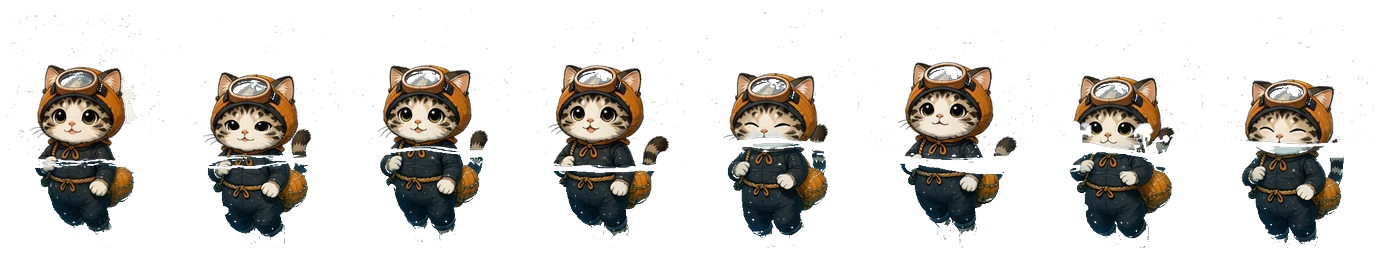
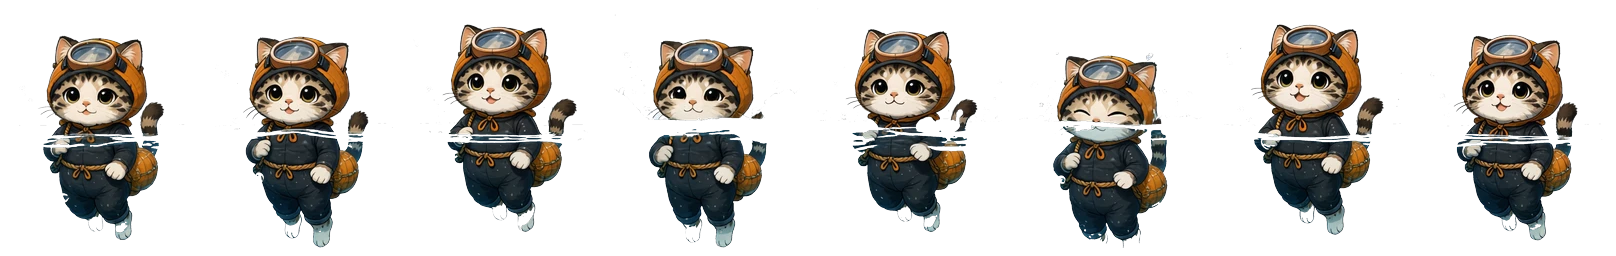
물속 조작을 방향키로 통일 + 물속 그림 3종 교체 + 제주도 지도 아이콘
- 물속에서 Space·Shift 제거: ↑ 떠오르기, ↓ 잠수, ← → 좌우 헤엄
  (폰은 조이스틱 위/아래/좌우 그대로)
- 직접 뽑으신 영상 3편을 그림띠로 변환해 교체:
  · dive_float — 입수 첫 모습(수면에 떠서 물결이 가슴에 걸친 모습)
  · dive_up — 위를 보며 떠오르는 모습 (5칸→8칸)
  · dive_down — 아래로 잠수하는 모습 (이전 커밋)
- 왼쪽 아래 지도 버튼을 🗺 이모지에서 한라산 볼록한 제주도 모양으로

diff --git a/game/jeju3d.js b/game/jeju3d.js
@@ -2198,9 +2198,9 @@ if (CAN_USE_IMAGES) {
   // 해녀 물질 — 헤엄·둥둥·수면은 영상에서 뽑아 8칸씩이라 훨씬 부드럽게 움직입니다
   loadSheet('diveSwim',  'dive_swim.webp',  8,  164);          // 물속 활공 (옆모습, 원본은 왼쪽을 봄)
   loadSheet('diveIdle',  'dive_idle.webp',  8,  139);          // 물속에 가만히 떠 있기 (정면)
-  loadSheet('diveFloat', 'dive_float.webp', 8,  173);          // 수면에 떠서 숨 고르기 (정면)
+  loadSheet('diveFloat', 'dive_float.webp', 8,  202);          // 수면에 떠서 숨 고르기 — 입수 첫 모습 (직접 뽑으신 영상)
   loadSheet('divePick',  'dive_pick.webp',  6,  190);          // 전복·소라를 딸 때 (한 번만 재생)
-  loadSheet('diveUp',    'dive_up.webp',    5,  140);          // 수면으로 떠오를 때
+  loadSheet('diveUp',    'dive_up.webp',    8,  165);          // 수면으로 떠오를 때 (직접 뽑으신 영상)
   loadSheet('diveDown',  'dive_down.webp',  8,  175);          // 아래로 잠수할 때 (직접 뽑으신 영상에서 변환)
   // 헌집 고치기 — 망치질(0) · 톱질(1) · 페인트칠(2). 수리 단계에 맞는 칸 하나를 보여줍니다
   loadSheet('fixHouse',  'fix_house.webp',  3,  167);
@@ -2330,7 +2330,6 @@ addEventListener('wheel', (e) => {
 // 손가락 여러 개를 동시에 쓰므로, 어느 손가락이 무슨 역할인지 번호(identifier)로 기억해둡니다.
 const touchMove = { f: 0, r: 0 };     // 조이스틱이 만들어내는 앞뒤(f)·좌우(r) 입력 (-1 ~ 1)
 let touchJump = false, touchRun = false;   // 화면 버튼을 누르고 있는 동안 true
-let touchDive = false;                     // 물속에서 💨 버튼을 누르고 있는 동안 true (잠수)
 let stickId = null, stickX = 0, stickY = 0;    // 이동용 손가락
 let lookId = null, lookX = 0, lookY = 0;       // 시야용 손가락
 let pinchDist = 0;                             // 줌용 두 손가락 사이 거리
@@ -2468,14 +2467,15 @@ function updateBasketBadge() {
 const KEY_ACTION = IS_TOUCH ? '🐾 버튼' : 'F';
 const KEY_GRAB = KEY_ACTION;   // 상호작용 키를 하나로 통일했습니다
 const KEY_UP = IS_TOUCH ? '⤴ 버튼' : 'Space';
-const KEY_DOWN = IS_TOUCH ? '💨 버튼' : 'Shift';   // 물속에서 아래로 잠수하기
 
 function updateRopeBadge() {
   if (!ropeBadge) return;
   ropeBadge.style.display = 'block';   // 아래 분기 중 하나가 걸리면 보입니다 (없으면 끝에서 숨김)
   // 물속에서는 상자 안내 대신 물질 안내를 보여줍니다
   if (state.diving) {
-    ropeBadge.textContent = `🤿 ${KEY_ACTION} 채집 · ${KEY_DOWN} 잠수 · ${KEY_UP} 떠오르기 · 수면에서 ${KEY_ACTION} 나가기`;
+    ropeBadge.textContent = IS_TOUCH
+      ? '🤿 🐾 채집 · 조이스틱 위로 떠오르기 · 아래로 잠수 · 수면에서 🐾 나가기'
+      : '🤿 F 채집 · ↑ 떠오르기 · ↓ 잠수 · ← → 헤엄 · 수면에서 F 나가기';
     return;
   }
   // 상점 안: 앞에 있는 물건의 이름·가격을 알려줍니다
@@ -3814,29 +3814,13 @@ bindTouchButton('btnAction', (down) => { if (down) { wakeAudio(); startBgm(); ha
 bindTouchButton('btnJump',   (down) => { touchJump = down; });
 // 달리기는 꾹 누르고 있는 대신, 한 번 누르면 켜지고 다시 누르면 꺼지는 토글입니다.
 // (왼손은 조이스틱을 잡고 있어서 버튼까지 계속 누르고 있기 어렵기 때문)
-// 물속에서는 같은 버튼이 "잠수(아래로)"가 됩니다 — 누르고 있는 동안 내려갑니다.
 {
   const runBtn = document.getElementById('btnRun');
-  let holdingDive = false;
-  if (runBtn) {
-    runBtn.addEventListener('pointerdown', (e) => {
-      e.preventDefault();
-      if (state.diving) {
-        touchDive = true; holdingDive = true;
-        runBtn.classList.add('on');
-        return;
-      }
-      touchRun = !touchRun;
-      runBtn.classList.toggle('on', touchRun);
-    });
-    ['pointerup', 'pointercancel', 'pointerleave'].forEach((ev) =>
-      runBtn.addEventListener(ev, () => {
-        if (holdingDive) {
-          touchDive = false; holdingDive = false;
-          runBtn.classList.remove('on');
-        }
-      }));
-  }
+  if (runBtn) runBtn.addEventListener('pointerdown', (e) => {
+    e.preventDefault();
+    touchRun = !touchRun;
+    runBtn.classList.toggle('on', touchRun);
+  });
 }
 
 // 점프 높이는 JUMP²/(2×GRAVITY). 7.4이면 1.24미터라 돌담(1.3미터쯤)을 아슬아슬하게 못 넘었습니다.
@@ -3886,11 +3870,14 @@ function updateLulu(dt) {
   const spd = (running ? RUN : WALK) * tilt;
 
   if (state.diving) {
-    // 물속: 미는 동안 서서히 붙고, 손을 놓아도 관성으로 한참 미끄러집니다 (인사이드식 묵직함)
-    if (moving) {
+    // 물속에서는 방향키만 씁니다: ← →(조이스틱 좌우)는 좌우 헤엄,
+    // ↑ ↓(조이스틱 위아래)는 아래쪽 점프·중력 계산에서 뜨고 가라앉기에 씁니다.
+    moveDir.set(rgtX * r, 0, rgtZ * r);
+    const sideTilt = Math.min(1, Math.abs(r));
+    if (moveDir.lengthSq() > 0.0001) {
       moveDir.normalize();
-      swimVel.x += moveDir.x * SWIM_ACCEL * tilt * dt;
-      swimVel.z += moveDir.z * SWIM_ACCEL * tilt * dt;
+      swimVel.x += moveDir.x * SWIM_ACCEL * sideTilt * dt;
+      swimVel.z += moveDir.z * SWIM_ACCEL * sideTilt * dt;
       state.idleTime = 0;
     } else {
       state.idleTime += dt;
@@ -3970,9 +3957,9 @@ function updateLulu(dt) {
   const gy = state.diving ? seabedHeight(state.x, state.z) : groundHeight(state.x, state.z);
   const wantUp = keys['Space'] || touchJump;
   if (state.diving) {
-    const wantDown = keys['ShiftLeft'] || keys['ShiftRight'] || touchDive;
-    if (wantUp) state.vy += SWIM_UP * dt;           // 위로 헤엄치기
-    else if (wantDown) state.vy -= SWIM_DOWN * dt;  // 아래로 잠수하기
+    // ↑(조이스틱 위)로 떠오르고, ↓(아래)로 잠수합니다 — f는 위에서 계산한 앞뒤 입력값
+    if (f > 0.1) state.vy += SWIM_UP * Math.min(1, f) * dt;         // 위로 헤엄치기
+    else if (f < -0.1) state.vy -= SWIM_DOWN * Math.min(1, -f) * dt; // 아래로 잠수하기
     else state.vy += BUOYANCY * dt;                 // 부력 — 가만히 있으면 살며시 떠오릅니다
     state.vy *= Math.max(0, 1 - 2.6 * dt);          // 물의 저항 — 움직임이 부드럽게 잦아듭니다
     state.vy = Math.max(-2.0, Math.min(2.2, state.vy));
@@ -4080,9 +4067,9 @@ function updateSpriteLulu(groundY) {
       sheet = SHEETS.diveFloat;
       cell = Math.floor(t * 6) % sheet.frames;
     } else if (state.vy > 0.5 || surfacing > 0) {
-      // 위로 헤엄쳐 떠오르는 중 (⤴·Space)
+      // 위로 헤엄쳐 떠오르는 중 (↑)
       sheet = SHEETS.diveUp;
-      cell = pingpong(Math.floor(t * 7), sheet.frames);
+      cell = Math.floor(t * 8) % sheet.frames;
     } else if (state.vy < -0.4) {
       // 아래로 잠수하는 중 (💨·Shift) — 전용 잠수 그림이 있으면 그걸, 없으면 활공 그림을 기울여 씁니다
       sheet = SHEETS.diveDown || SHEETS.diveSwim;

diff --git a/game/jeju3d.html b/game/jeju3d.html
@@ -146,6 +146,8 @@
     user-select: none; -webkit-tap-highlight-color: transparent; touch-action: manipulation;
   }
   .ibtn:active { background: rgba(255,190,80,.7); }
+  /* 버튼 속 그림(제주도 지도 아이콘)이 손가락 입력을 가로채지 않게 합니다 */
+  .ibtn svg { pointer-events: none; display: block; }
 
   /* ---- 전체 지도 (M키 / 🗺 배지) ---- */
   #mapWrap {
@@ -333,7 +335,7 @@
     <b>달리기</b> Shift<br>
     <b>점프</b> Space<br>
     <b>상호작용</b> F 하나로 전부 (따기·사기·택배·수리·먹이기·상자·물질)<br>
-    <b>물속에서</b> F 채집 · Shift 잠수 · Space 떠오르기 · 수면에서 F 나가기<br>
+    <b>물속에서</b> F 채집 · ↑ 떠오르기 · ↓ 잠수 · ← → 헤엄 · 수면에서 F 나가기<br>
     <b>전체 지도</b> M (또는 🗺 배지)<br>
     <b>왼쪽 아래</b> 💾 저장 · 🗺 지도 · 🎵 음악 (자동 저장도 됩니다)
   </div>
@@ -353,7 +355,14 @@
 
   <div id="iconRow">
     <button class="ibtn" id="btnSave" title="저장하기">💾</button>
-    <button class="ibtn" id="mapBadge" title="지도 (M)">🗺</button>
+    <button class="ibtn" id="mapBadge" title="지도 (M)">
+      <!-- 제주도를 단순화한 모양: 동서로 길쭉한 섬 가운데에 한라산이 볼록 -->
+      <svg width="24" height="15" viewBox="0 0 48 30" aria-hidden="true">
+        <path d="M5 18 Q3 12 10 10 Q16 4 24 5 Q34 3 41 9 Q46 12 44 17 Q42 22 33 24 Q22 27 12 24 Q6 22 5 18 Z"
+              fill="#8fce76" stroke="#3c6e33" stroke-width="2.4" stroke-linejoin="round"/>
+        <path d="M19 13 L24 7 L29 13 Z" fill="#3c6e33"/>
+      </svg>
+    </button>
     <button class="ibtn" id="musicBadge" title="배경음악">🎵</button>
   </div>
   <div class="badge" id="carrotBadge">🥕 당근 0개</div>
@@ -427,6 +436,6 @@
 
 <script src="lib/three.min.js"></script>
 <!-- ?v= 뒤 숫자는 "캐시 무시용" 표시입니다. jeju3d.js를 고쳤는데 화면이 그대로면 숫자를 1 올리세요. -->
-<script src="jeju3d.js?v=29"></script>
+<script src="jeju3d.js?v=30"></script>
 </body>
 </html>
